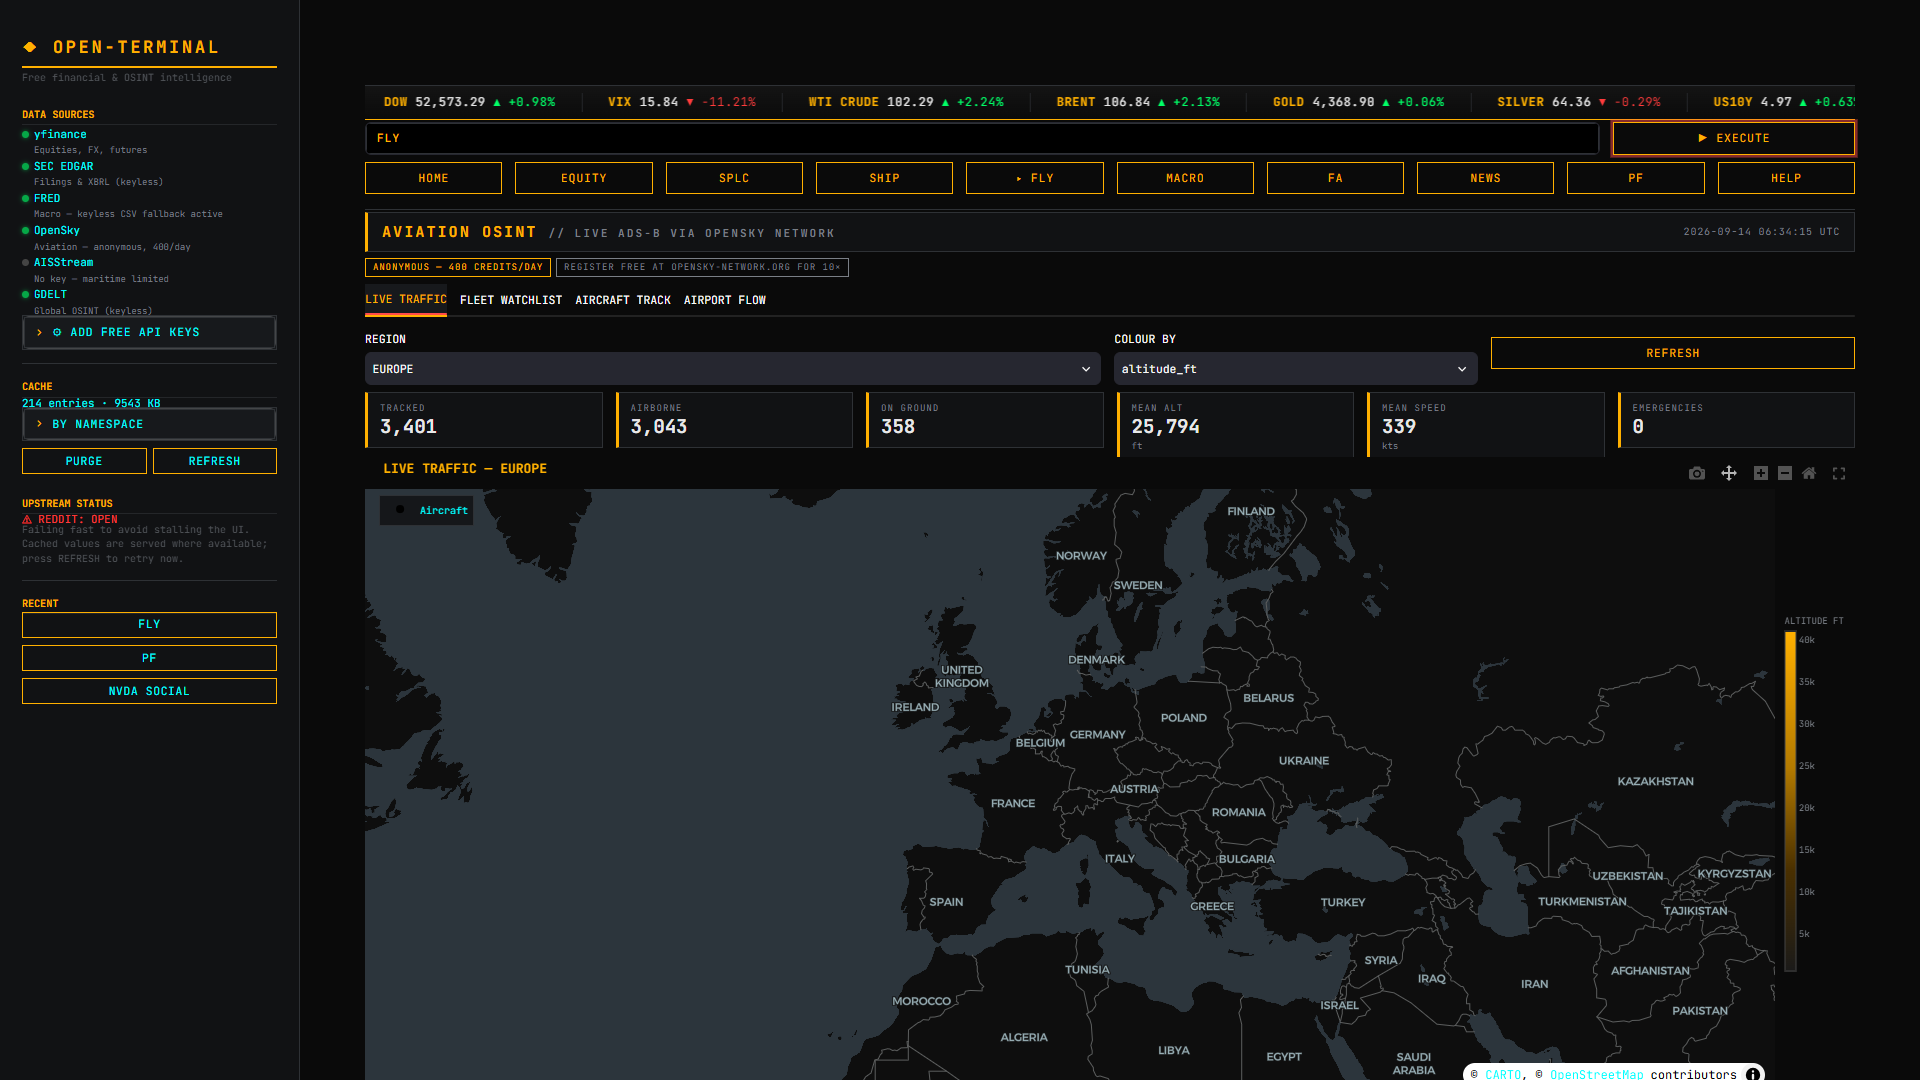
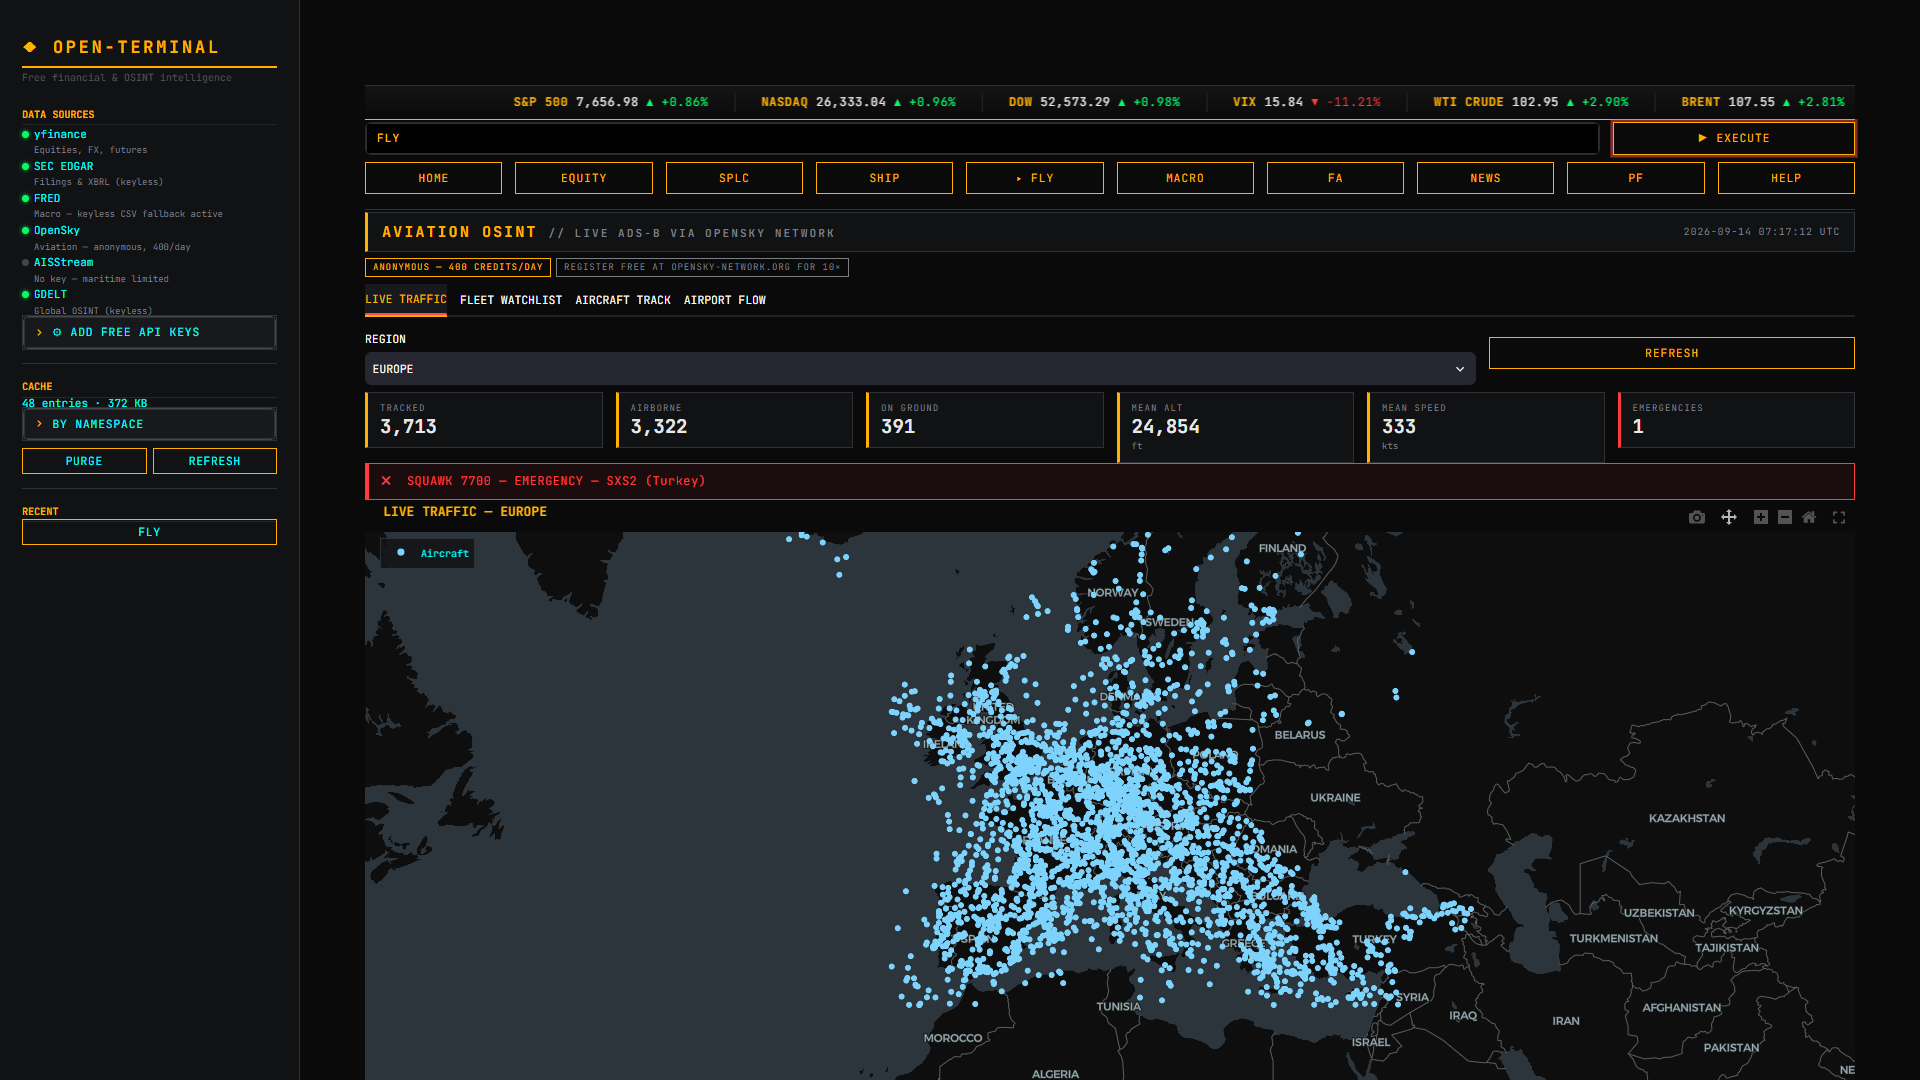
Correct the aviation screenshot and document map markers
The README's aviation caption said the map looked empty because the
headless capture browser did not paint WebGL. That was wrong: the aircraft
were drawn, as black triangles on a dark basemap. With the markers fixed,
the screenshot is retaken and shows the traffic, and the caption now
describes what is on it.

Also adds a note on why map markers must be circles to take a colour, a
row for test_maps.py in the tests table, and the new count of 566 offline
tests.

diff --git a/README.md b/README.md
@@ -28,7 +28,7 @@ runs — headlines just score `+0.00` across the board. See
 | **Supply Chain** | `AAPL SPLC` | Named customers from the 10-K (anonymised ones reported as anonymised, never guessed), reported revenue by region, commodity dependency as return correlations, and Altman Z-score credit risk — every edge traced to a filing |
 | **Macro** | `YCRV` `REGIME` `CPI ECO` | Growth/inflation regime matrix, full 11-tenor Treasury curve, inversion detection, composite recession score, inflation and labour dashboards, Fed net liquidity, FRED series browser, World Bank cross-country data |
 | **Maritime** | `SUEZ SHIP` | AIS vessel positions, 7 chokepoint congestion monitors scored against locally measured baselines, MMSI/IMO lookup, custom area scans |
-| **Aviation** | `EUROPE FLY` | Live ADS-B state vectors, fleet tracking by ICAO operator designator, aircraft tracks, airport throughput |
+| **Aviation** | `EUROPE FLY` | Live ADS-B state vectors drawn as light-blue dots, fleet tracking by ICAO operator designator, aircraft tracks, airport throughput |
 | **Portfolio** | `PF` `ALLOC` `BRIEF` | Holdings and watchlist editor, mark-to-market in one base currency (SGX, London and other non-USD listings converted at live FX), position concentration, GICS sector exposure with ETF look-through, rebalancing against a live benchmark, and an 08:00 SGT morning brief with a written summary of the book |
 | **News** | `NEWS` `AAPL SOCIAL` | 21 RSS feeds + GDELT, sentiment scoring, trending-term extraction, and multi-platform sentiment fusion across headlines, StockTwits and Reddit |
 
@@ -66,7 +66,7 @@ demo portfolio in place of real holdings. Click any image for full size.
   </tr>
   <tr>
     <td valign="top"><img src="docs/images/morning-brief.png" alt="Morning brief"><br><b>Morning brief</b> — the 08:00 SGT edition: a written summary of the whole book, then stories ranked by sentiment strength times position weight.</td>
-    <td valign="top"><img src="docs/images/aviation.png" alt="Aviation live traffic over Europe"><br><b>Aviation</b> — live ADS-B traffic from OpenSky's anonymous tier, with fleet, track and airport-flow tabs. The aircraft markers are drawn with WebGL, which the headless browser used for these captures did not paint, so the map looks empty here.</td>
+    <td valign="top"><img src="docs/images/aviation.png" alt="Aviation live traffic over Europe"><br><b>Aviation</b> — live ADS-B traffic from OpenSky's anonymous tier, one light-blue dot per aircraft, with fleet, track and airport-flow tabs.</td>
   </tr>
   <tr>
     <td valign="top"><img src="docs/images/maritime.png" alt="Maritime chokepoint monitor without an AIS key"><br><b>Maritime</b> — shown without an AISStream key: the module says so and lists the source options instead of drawing an empty map.</td>
@@ -496,7 +496,7 @@ Free data sources fail constantly. Three layers handle it:
 ## Tests
 
 ```bash
-pytest                # 559 offline tests, ~5s
+pytest                # 566 offline tests, ~5s
 pytest -m network     # 11 live tests against SEC EDGAR and Yahoo
 pytest -m "" -q       # everything
 ```
@@ -518,6 +518,7 @@ outage trains you to ignore failures.
 | `test_portfolio_fx.py` | Base-currency conversion of SGX and London listings, native price kept, a missing FX rate or quote currency left unpriced (never treated as 1.0), pence units, configurable base currency, the FX and quote-currency fetchers, re-deriving brief summaries written before conversion |
 | `test_portfolio_brief.py` | Book snapshot totals and day %, no cost basis means no P&L rather than zero, narrative clauses dropped when their inputs are missing, unpriced positions named, legacy editions backfilled without refetching headlines |
 | `test_sectors.py` | Sector weight = industry share × member share, zero-weight members and failed industries, backfilled sector leaders, literal (non-regex) search, unrated and uncapped filters, heatmap tile → GICS mapping, clickable tiles and selection parsing |
+| `test_maps.py` | Aircraft markers on the live traffic map: one light-blue colour whatever the altitude or speed, circle symbols (the only ones a map trace will colour), no colour scale, heading kept in the hover card, empty feeds |
 
 The two indicator/XBRL files are **regression suites, not coverage padding**.
 Both bugs they guard were invisible in the UI — the chart drew a plausible
@@ -580,6 +581,14 @@ contact string. User-Agent is selected per host.
 **OpenSky auth.** Basic auth is deprecated; the API moved to OAuth2
 client-credentials. Anonymous access still works at a quarter of the quota and
 10-second resolution instead of 5.
+
+**Map markers only take a colour as circles.** On a Plotly map trace, any
+`marker.symbol` other than `"circle"` is drawn from the basemap style's Maki
+icon sprite and ignores `marker.color` — Plotly's own docstring says so, in a
+sentence that is easy to miss. The FLY map drew heading-rotated triangles
+coloured by altitude, and on carto-darkmatter every one rendered black:
+several thousand aircraft over Europe looked like an empty map. Aircraft are
+now light-blue circles, with heading moved into the hover card.
 
 **Free-data limits worth knowing.** Prices are delayed. AIS coverage is thin
 outside major lanes. OpenSky's receiver network is sparse over oceans and much
